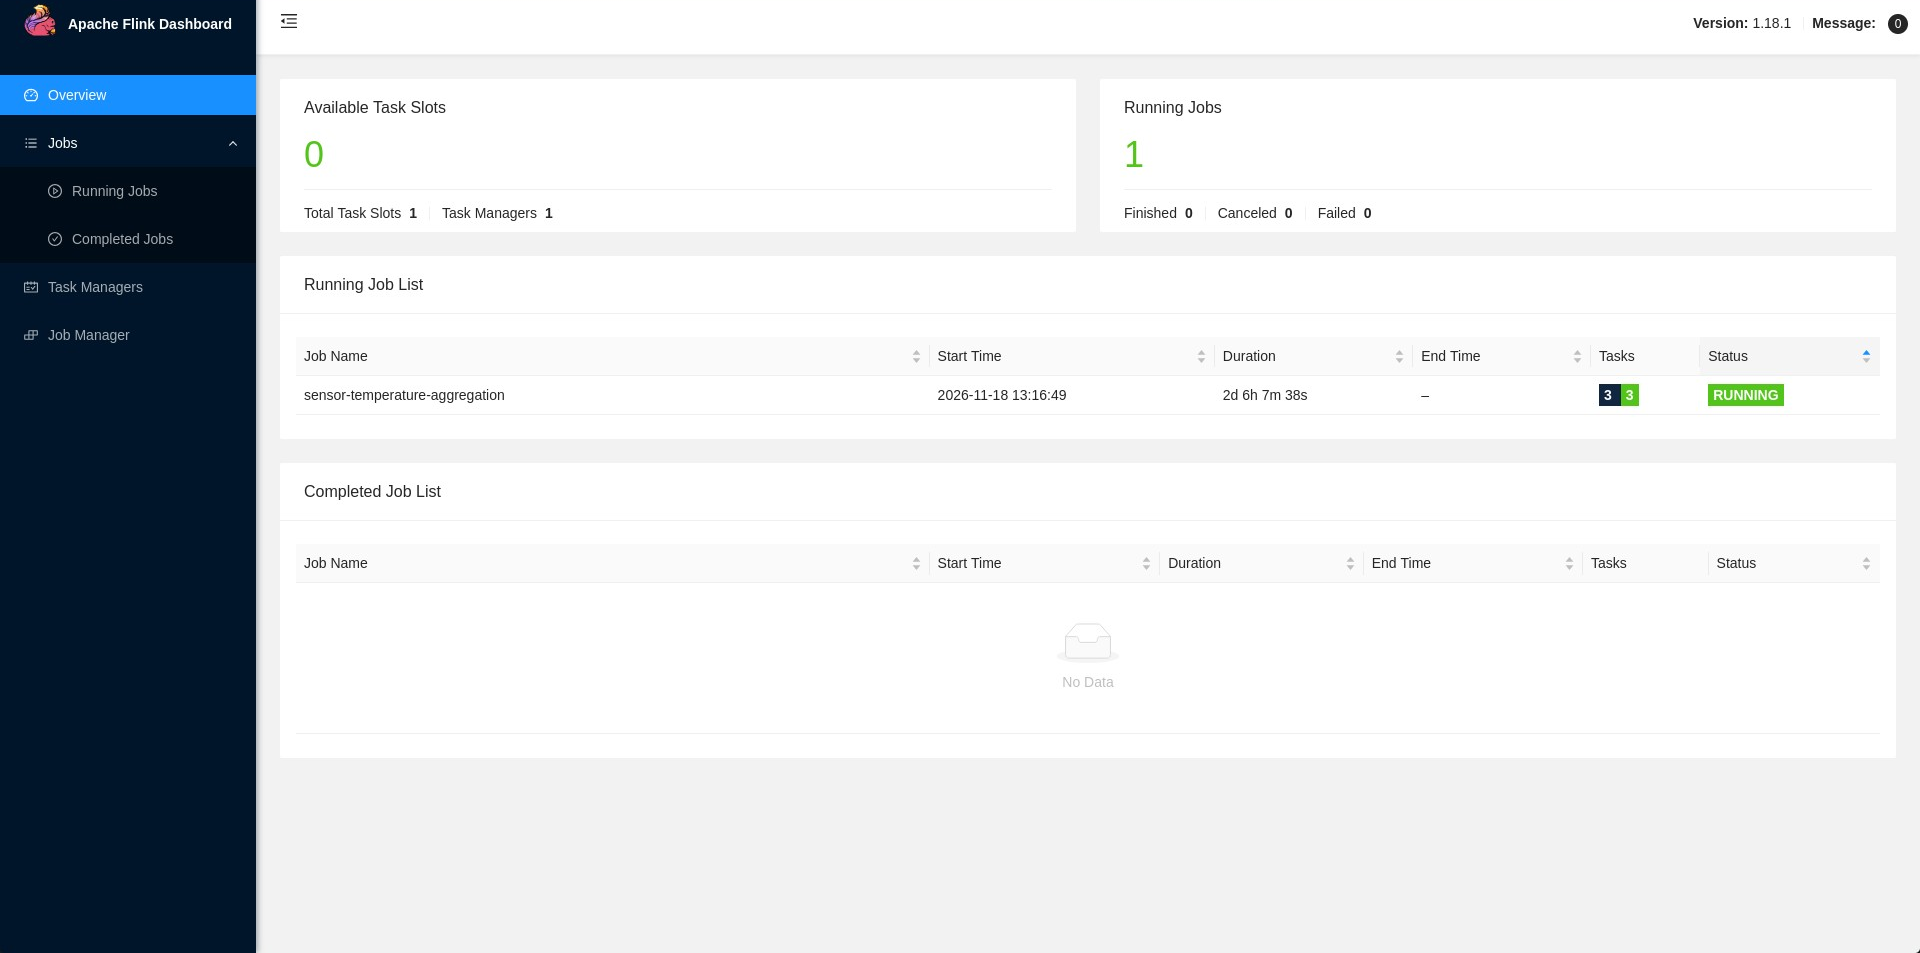
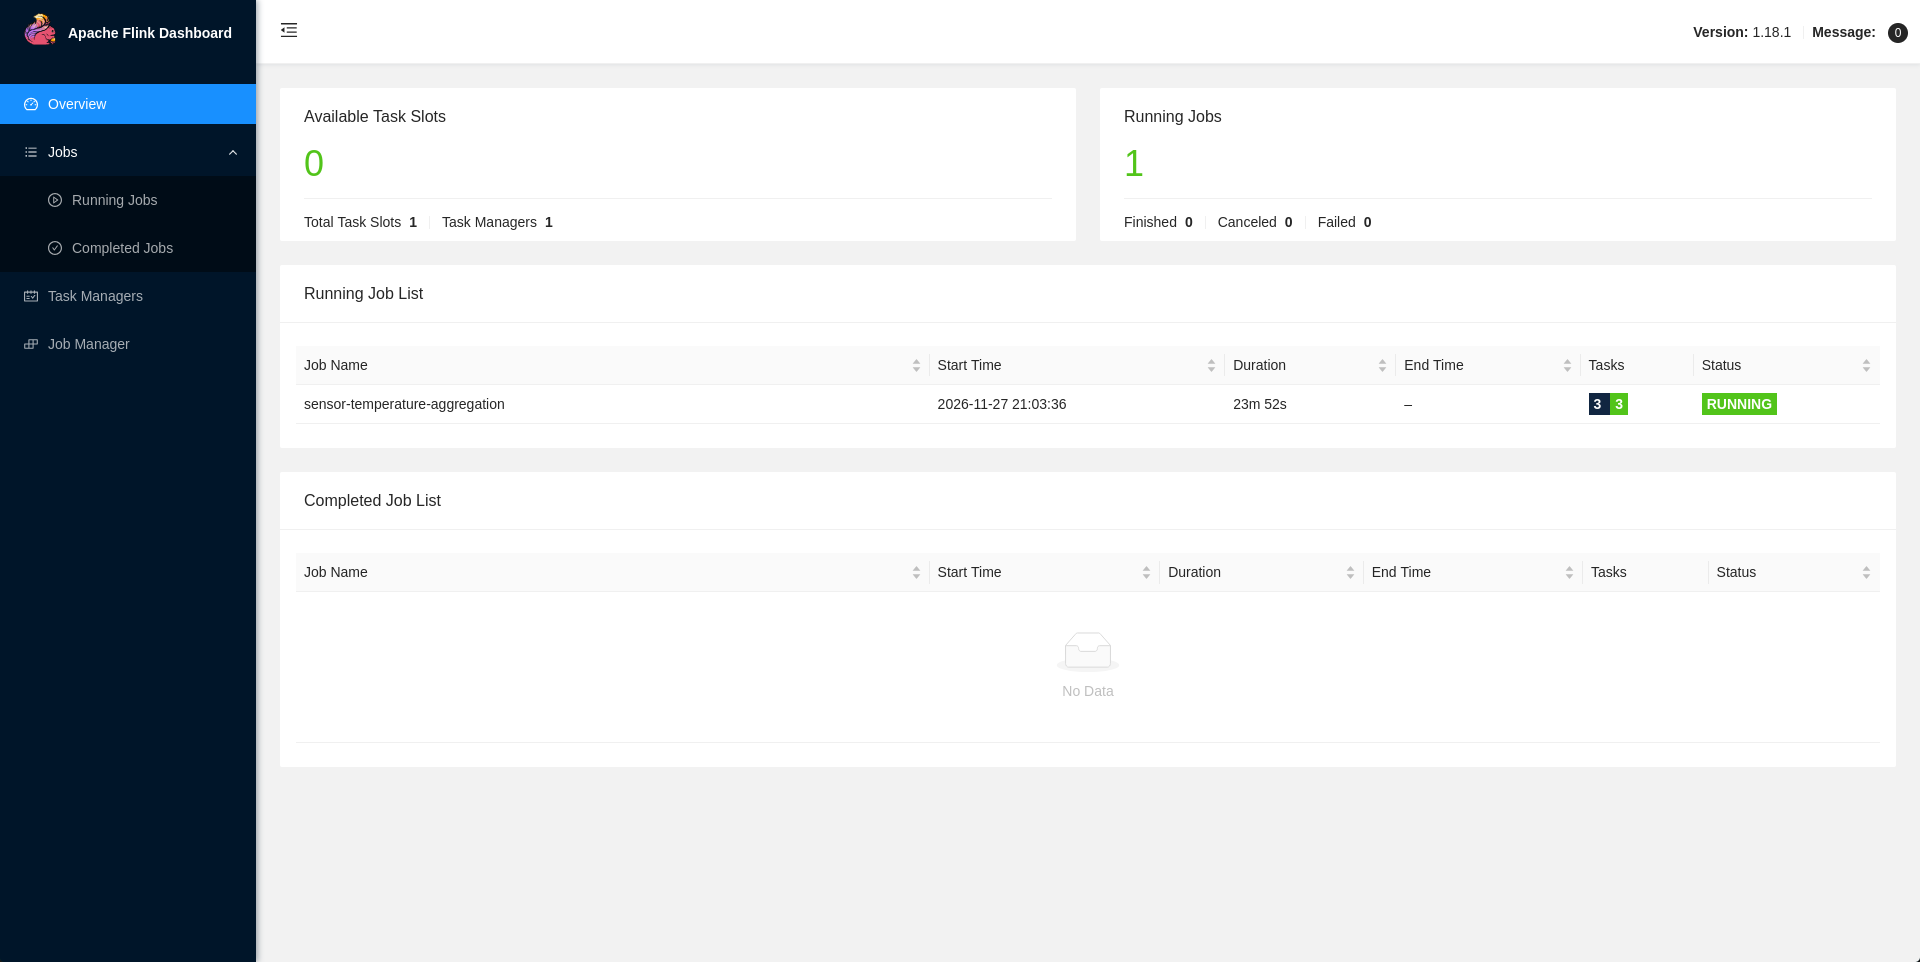
Evidencia del despliegue desde cero, README actualizado y script de eventos

diff --git a/scripts/send_test_events.py b/scripts/send_test_events.py
@@ -1,0 +1,39 @@
+import boto3
+import json
+import random
+import time
+from datetime import datetime, timezone
+
+kinesis = boto3.client("kinesis", region_name="us-east-2")
+STREAM_NAME = "realtime-sensors-dev-events"
+
+SENSOR_IDS = [f"sensor-{i:03d}" for i in range(1, 6)]
+
+def build_event(sensor_id):
+    now = datetime.now(timezone.utc)
+    return {
+        "sensor_id": sensor_id,
+        "temperatura": round(random.uniform(18.0, 32.0), 2),
+        "humedad": round(random.uniform(30.0, 80.0), 2),
+        "timestamp": now.strftime("%Y-%m-%dT%H:%M:%S.") + f"{now.microsecond:06d}Z",
+    }
+
+total_sent = 0
+NUM_BATCHES = 30
+EVENTS_PER_BATCH = 5
+
+for batch_num in range(NUM_BATCHES):
+    records = []
+    for _ in range(EVENTS_PER_BATCH):
+        sensor_id = random.choice(SENSOR_IDS)
+        event = build_event(sensor_id)
+        records.append({
+            "Data": json.dumps(event).encode("utf-8"),
+            "PartitionKey": sensor_id,
+        })
+    resp = kinesis.put_records(StreamName=STREAM_NAME, Records=records)
+    total_sent += len(records) - resp.get("FailedRecordCount", 0)
+    print(f"Batch {batch_num + 1}/{NUM_BATCHES}: enviados {len(records)}, fallidos {resp.get('FailedRecordCount', 0)}")
+    time.sleep(3)
+
+print(f"\nTotal de eventos enviados exitosamente: {total_sent}")

diff --git a/README.md b/README.md
@@ -43,26 +43,28 @@ Después del despliegue, guarda capturas reales de Glue y Athena en `evidence/ic
 
 ## Compilar y desplegar
 
-Requisitos: JDK 11 o posterior, Maven 3.8+, Terraform 1.5+ y AWS CLI con permisos para crear Kinesis, KMS, S3, Glue, IAM, CloudWatch, Firehose y Managed Flink.
+Requisitos: JDK 11 o posterior, Maven 3.8+, Terraform 1.5+ y AWS CLI con permisos para crear Kinesis, KMS, S3, Glue, IAM, CloudWatch, Firehose, Managed Flink y Redshift Serverless.
+
+El código de `terraform/` está dividido en cuatro módulos (`modules/storage`, `ingestion`, `flink`, `redshift`) y guarda su estado en un backend remoto S3 con locking en DynamoDB.
 
 ```bash
+# 1. Compilar el JAR de Flink
 cd flink-app
 mvn clean package
+
+# 2. Crear una sola vez el bucket y la tabla del backend remoto
 cd ../terraform
-cp terraform.tfvars.example terraform.tfvars
-terraform init
+bash bootstrap_backend.sh          # imprime: Bucket: tfstate-<account-id>
+echo 'bucket = "tfstate-<account-id>"' > backend.hcl
+
+# 3. Variables y despliegue
+cp terraform.tfvars.example terraform.tfvars   # completar redshift_allowed_cidr con tu IP /32
+terraform init -backend-config=backend.hcl
 terraform plan
 terraform apply
 ```
 
-Para iniciar la aplicación después del `apply`:
-
-```bash
-aws kinesisanalyticsv2 start-application \
-  --application-name realtime-sensors-dev-flink-aggregation \
-  --run-configuration 'ApplicationRestoreConfiguration={ApplicationRestoreType=SKIP_RESTORE}' \
-  --region us-east-2
-```
+La aplicación de Flink arranca sola al terminar el `apply` (`start_application = true`); no hace falta ningún comando manual. Las vistas de Redshift no las crea Terraform: se ejecutan una vez desde `sql/` (ver más abajo).
 
 Enviar datos de prueba (el ejemplo usa hora de ingestión):
 
@@ -84,13 +86,25 @@ aws logs tail /aws/kinesis-analytics/realtime-sensors-dev-flink-aggregation \
 
 ### Ejecución real en AWS
 
-El stack completo (Kinesis, Managed Flink, Iceberg/Glue, Redshift Serverless) se desplegó con `terraform apply` y se validó con eventos sintéticos. Las capturas se tomaron de la consola mientras el stack estaba activo (18 a 20/11/2026). Después apagué los recursos para no generar costo.
+El stack completo (Kinesis, Managed Flink, Iceberg/Glue, Redshift Serverless) se destruyó y se volvió a crear desde cero con un solo `terraform apply` (25 recursos en unos 6 minutos, aplicación de Flink arrancada por Terraform). Después se enviaron 150 eventos sintéticos con `scripts/send_test_events.py` y se tomaron las capturas el 27/11/2026. Una vez tomada la evidencia, el stack se destruye para no generar costo.
 
-- `evidence/flink-dashboard.png`: Apache Flink Dashboard, job `sensor-temperature-aggregation` en estado RUNNING, 3/3 tasks, 0 fallos.
-- `evidence/redshift-query.png`: consulta a `v_sensor_readings` en Redshift Query Editor v2, con datos frescos.
-- `evidence/redshift-arrival-timestamp.png`: `event_timestamp` (hora del sensor) junto a `approximate_arrival_timestamp` (hora de llegada a Kinesis).
+- `evidence/flink-dashboard.png`: Apache Flink Dashboard, job `sensor-temperature-aggregation` en RUNNING, 3/3 tasks, 0 fallos.
+- `evidence/flink-checkpoints.png`: 25 checkpoints completados, 0 fallidos.
+- `evidence/redshift-freshness.png`: `event_timestamp` (hora del sensor) junto a `approximate_arrival_timestamp` (hora de llegada a Kinesis).
+- `evidence/redshift-iceberg.png`: tabla Iceberg `sensor_window_summaries` leída por Redshift Spectrum.
+- `evidence/redshift-join.png`: JOIN entre la vista en vivo de Redshift y la tabla Iceberg.
 
 El análisis completo está en el documento DAAT (`Matias_Volpe_Capstone_RealTime.pdf`).
+
+#### Vistas de Redshift
+
+Después del `apply`, desde la raíz del repositorio:
+
+```bash
+bash sql/render_sql.sh        # genera sql/streaming_analytics.rendered.sql con el ARN del rol
+```
+
+Conectarse a Redshift (base `analytics`, usuario `admin_analytics`, contraseña con `terraform output -raw redshift_admin_password`) y ejecutar el archivo generado.
 
 ### Ejecución local sin AWS
 
